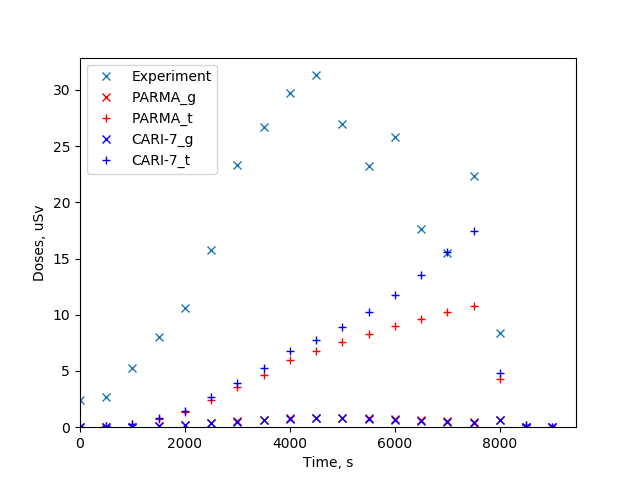
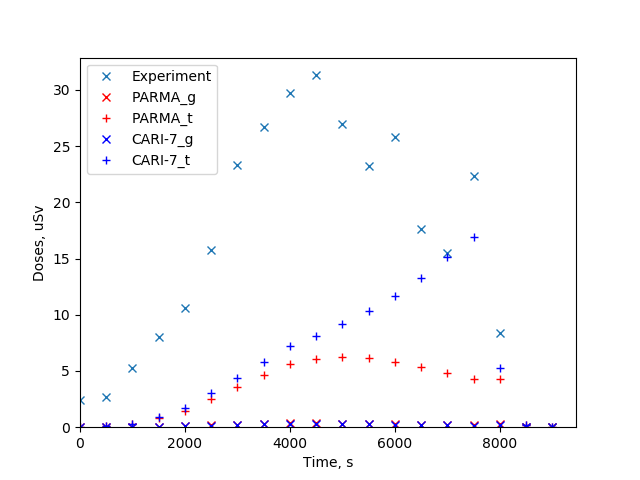
Adjusted url in .py files, completed README

diff --git a/experiment.py b/experiment.py
@@ -13,7 +13,7 @@ month = '7'
 day = '19'
 
 def get_api_data(particle, api): 
-    url = "http://cosmicrays.amentum.space/" + api + "/effective_dose"
+    url = "http://cosmicrays.amentum.space/" + api + "/ambient_dose"
     values = [] 
     for alt in df['altitude'] :
         

diff --git a/flight.py b/flight.py
@@ -27,7 +27,7 @@ df.columns = [
     ]
 
 for model in ["parma", "cari7"]:
-    url = "http://cosmicrays.amentum.space/" + model + "/effective_dose"
+    url = "http://cosmicrays.amentum.space/" + model + "/ambient_dose"
     values = []
 
     for index, row in df.iterrows():

diff --git a/README.md b/README.md
@@ -4,34 +4,45 @@
 
 Everyday cosmic radiation enters the Earth's atmosphere, significant amount of this radiation is made up of gamma rays. 
 
-This validation study will be does two comparisons, using PARMA and CARI-7 APIs. The first compares the APIs with data gathered from (a European study), and the seond with a University of Sydney study. 
+This validation study will be does two comparisons, using PARMA and CARI-7 APIs. The first compares the APIs with data gathered from a collaborative European study, and the seond with a University of Sydney study. 
 
 This study will validate the API's ability to model gamma radiation in Earth's atmosphere.
 
 ## Aim
 
-To validate the Amentum Ray API by comparing experimental data obtained during ascent of a balloon against model prediction
+To validate the Amentum Ray APIs by comparing experimental data obtained during plane flights (European study) and the ascent of a balloon (the USyd study) against model prediction.
 
 ## Run the analysis
 
-Run the analysis script by entering the following in a terminal
+Run the analysis scripts by entering the following in a terminal
 
-        python example.py
+        python experiment.py
+    or
+        python flight.py
 
-## Results and discussion
+Experiment.py shows the comparison between the University of Sydney study and the APIs, and flight.py shows the comparison between the European study and the APIs
 
-Include the main result image here
+## Results
 
-#First draft
-The difference between data gathered from the PARMA API and data gathered from the Sdney uni experiment are orders of magnitude different. A logarmithmic y axis was used so the results plotted in a nicer looking way.
-Though the Regener-Pfotzer Maximum can be seen in both sets of data. This indicates that there is some reliability in each method.
+We can see that European study and the API results are close to the experimental data, the CARI-7 model is even within the experimental error for almost every measurement.
+The results from the USyd study do not agree with the data gained from the API models.
+
+![](barplot.png)
+***
+The bars are broken into groups of when the readings were taken. G1: Altitude = 40,000 ft; Latitude = 57 N; Longitude 8 E
+G2: Altitude = 32,000 ft; Latitude = 57 N; Longitude 8 E
+G3: Altitude = 40,000 ft; Latitude = 42 N; Longitude 12 E
+G4: Altitude = 32,000 ft; Latitude = 42 N; Longitude 12 E
+***
+
 
 ![](lineplot.png)
-![](barplot.png)
 
 
 ## Acknowledgement
 
-Write details for the publication here 
-#double check how to reference properly
-Mukherjee, B., et al. 2016 "Near space radiation dosimetry in Australian outback using a balloon borne energy compensated PIN diode detector", Radiation Measurements, vol?. 2016
+Thanks to DR Iwan Cornelius, Amentum Aerospace CEO, his insight and guidance was invaluable throughout this validation.
+
+Lillhök, j. et al. 2007 "A comparison of ambient dose equivalent meters and dose calculations at constant flight conditions", Radiation Measurements, vol. 42, pp. 323-333
+
+Mukherjee, B., et al. 2016 "Near space radiation dosimetry in Australian outback using a balloon borne energy compensated PIN diode detector", Radiation Measurements, vol. 94, pp. 65-72 
